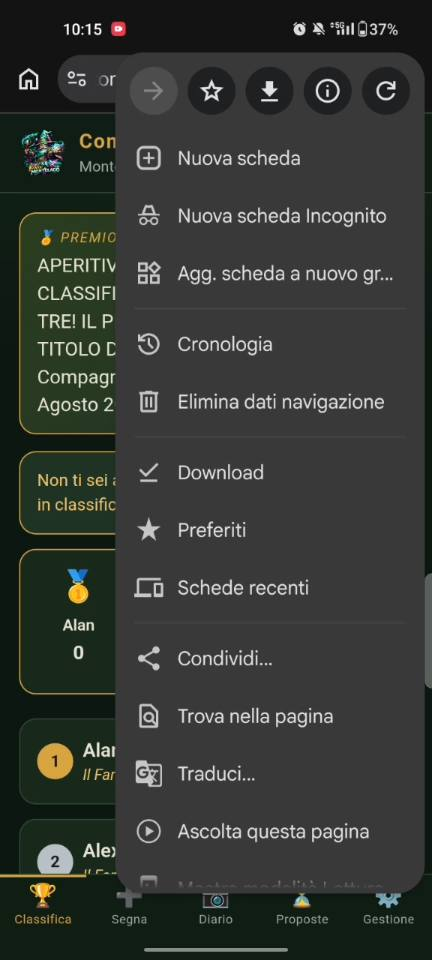
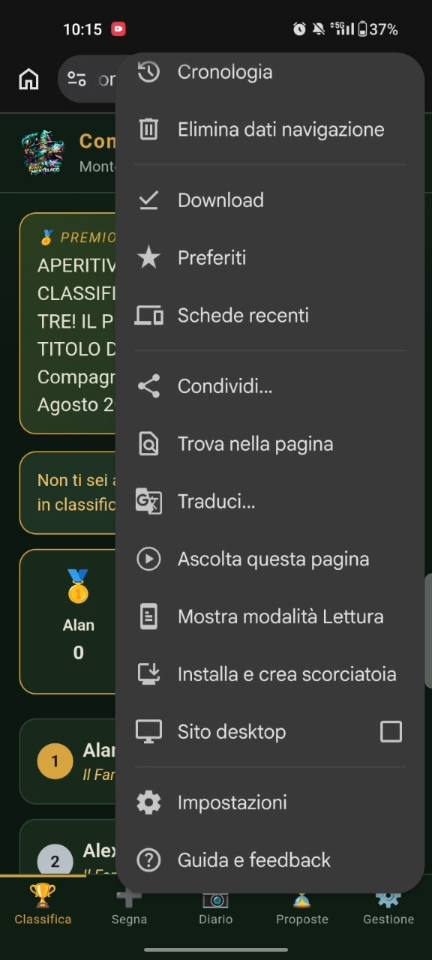
Guida all'installazione: dicitura corretta e un passaggio in meno
Nel fotogramma che avevo scelto per il secondo passo la voce del menu non era
nemmeno visibile, stava sotto il bordo dello schermo: cosi' ne avevo scritta
una a memoria invece di leggerla. Ora la schermata mostra il menu gia' scorso,
con la voce evidenziata nel momento in cui viene toccata, e il testo riporta
quella vera: "Installa e crea scorciatoia".

Tolto anche l'ultimo passaggio, che mostrava solo l'icona fra le altre app
senza aggiungere niente: quello che c'era da dire e' confluito nella conferma.
Quattro passi invece di cinque, 145 KB di schermate.

Changed region(s): [[0.3009, 0.0625, 0.963, 0.9375], [0.8727, 0.75, 0.9329, 0.7812]]

diff --git a/guida.html b/guida.html
@@ -141,11 +141,11 @@
     <div class="passo-installa">
       <div class="riga">
         <span class="n">2</span>
-        <span class="grow"><b>Scorri il menu fino in fondo</b>
-          <div class="muted">È più lungo dello schermo: scendi finché non trovi
-            <b>«Aggiungi a schermata Home»</b>.</div></span>
+        <span class="grow"><b>Scendi fino a «Installa e crea scorciatoia»</b>
+          <div class="muted">Il menu è più lungo dello schermo: la voce non si vede
+            subito, bisogna scorrerlo. Su qualche telefono è scritta di poco diversa.</div></span>
       </div>
-      <img src="assets/installa/2-menu.jpg" alt="Il menu di Chrome" loading="lazy" width="432" height="960">
+      <img src="assets/installa/2-menu.jpg" alt="Il menu di Chrome scorso fino alla voce giusta" loading="lazy" width="432" height="960">
     </div>
 
     <div class="passo-installa">
@@ -162,19 +162,11 @@
       <div class="riga">
         <span class="n">4</span>
         <span class="grow"><b>Conferma</b>
-          <div class="muted">Tocca <b>Installa</b> nella finestrella che compare.</div></span>
+          <div class="muted">Tocca <b>Installa</b> nella finestrella che compare.
+            L'icona finisce fra le tue app, e da lì si apre a schermo intero e
+            <b>anche senza campo</b>.</div></span>
       </div>
       <img src="assets/installa/4-conferma.jpg" alt="Conferma dell'installazione" loading="lazy" width="432" height="960">
-    </div>
-
-    <div class="passo-installa">
-      <div class="riga">
-        <span class="n">5</span>
-        <span class="grow"><b>Fatto</b>
-          <div class="muted">L'icona è fra le tue app. Da lì Fanta Montelago si apre a
-            schermo intero e <b>si avvia anche senza campo</b>.</div></span>
-      </div>
-      <img src="assets/installa/5-icona.jpg" alt="L'icona fra le applicazioni" loading="lazy" width="432" height="960">
     </div>
   </details>
 

diff --git a/js/views/info.js b/js/views/info.js
@@ -66,9 +66,9 @@ const PASSI_INSTALLAZIONE = [
   },
   {
     figura: '2-menu.jpg',
-    titolo: 'Scorri il menu fino in fondo',
-    testo: 'È più lungo dello schermo: scendi finché non trovi '
-         + '<b>«Aggiungi a schermata Home»</b>.',
+    titolo: 'Scendi fino a «Installa e crea scorciatoia»',
+    testo: 'Il menu è più lungo dello schermo: la voce non si vede subito, '
+         + 'bisogna scorrerlo. Su qualche telefono è scritta di poco diversa.',
   },
   {
     figura: '3-installa.jpg',
@@ -79,13 +79,9 @@ const PASSI_INSTALLAZIONE = [
   {
     figura: '4-conferma.jpg',
     titolo: 'Conferma',
-    testo: 'Tocca <b>Installa</b> nella finestrella che compare.',
-  },
-  {
-    figura: '5-icona.jpg',
-    titolo: 'Fatto',
-    testo: 'L\'icona è fra le tue app. Da lì Fanta Montelago si apre a schermo '
-         + 'intero e <b>si avvia anche senza campo</b>.',
+    testo: 'Tocca <b>Installa</b> nella finestrella che compare. '
+         + 'L\'icona finisce fra le tue app, e da lì si apre a schermo intero '
+         + 'e <b>anche senza campo</b>.',
   },
 ];
 
